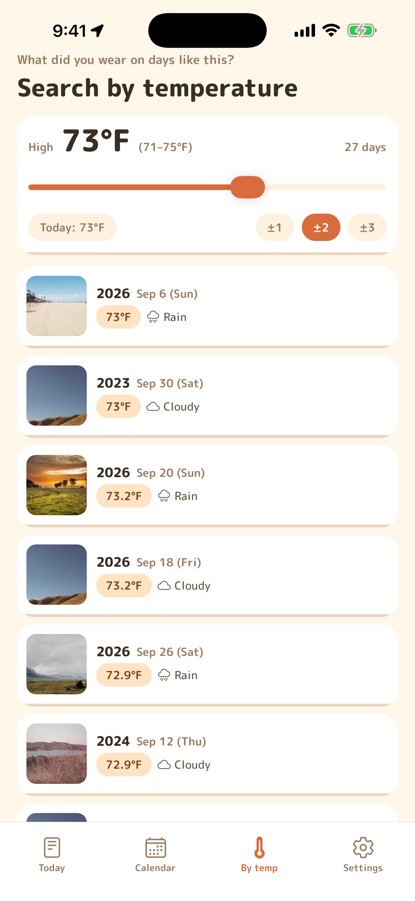
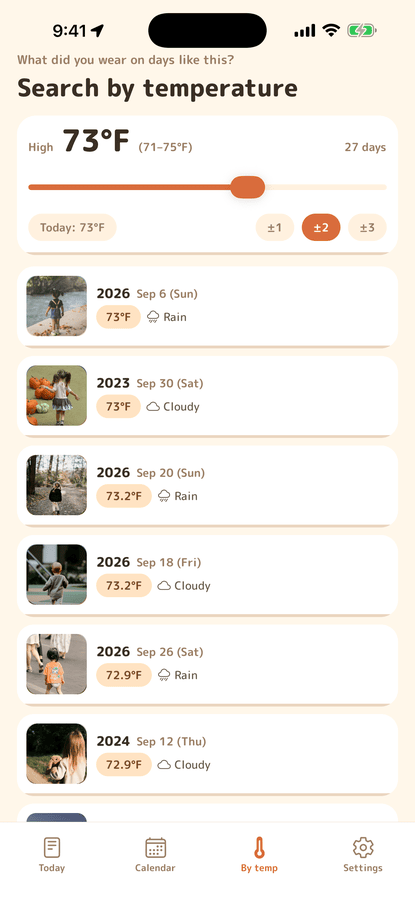
かさね日記の紹介ページ(日英): 画像を 1.8 の 7 枚に差し替え(朝のカードを先頭に、alt を付け直し、圧縮)、できることの先頭に朝の答え

Changed region(s): [[0.0578, 0.404, 0.2313, 0.8701], [0.0578, 0.2797, 0.2313, 0.3729]]

diff --git a/kasane-diary/index.html b/kasane-diary/index.html
@@ -57,15 +57,17 @@
   </header>
 
   <div class="shots">
-    <img src="./img/s1.png" alt="きょう・先週・先月・去年・2年前の同じ日が一枚の頁に並ぶ画面" loading="lazy">
-    <img src="./img/s2.png" alt="アプリの画面" loading="lazy">
-    <img src="./img/s3.png" alt="アプリの画面" loading="lazy">
-    <img src="./img/s4.png" alt="アプリの画面" loading="lazy">
-    <img src="./img/s5.png" alt="アプリの画面" loading="lazy">
-    <img src="./img/s6.png" alt="テーマカラーを選ぶ画面" loading="lazy">
+    <img src="./img/s1.png" alt="けさの気温と、同じくらいの気温だった日の写真" loading="lazy">
+    <img src="./img/s2.png" alt="きょう・先週・先月・去年・2年前の同じ日が一枚の頁に並ぶ画面" loading="lazy">
+    <img src="./img/s3.png" alt="去年・2年前と重ねてぱらぱら" loading="lazy">
+    <img src="./img/s4.png" alt="気温で過去の日をさがす画面" loading="lazy">
+    <img src="./img/s5.png" alt="ひと月の写真とその日の気温が並ぶこよみ" loading="lazy">
+    <img src="./img/s6.png" alt="何の日記かを選ぶ画面" loading="lazy">
+    <img src="./img/s7.png" alt="テーマカラーを選ぶ画面" loading="lazy">
   </div>
 
   <h2>できること</h2>
+  <div class="card"><h3>けさは半袖? 長袖? の答え</h3><p>ホームのいちばん上に、きょうの最高・最低・朝 8 時の気温と、同じくらいの気温だった日の写真が並びます。夕方からは、あしたの気温に切り替わるので、前の晩のうちに服を決めておけます。</p></div>
   <div class="card"><h3>気温でさがす</h3><p>今日と同じくらいの気温だった日の写真を、これまでの記録から並べて見られます。毎朝の服選びや衣替えの目安に。</p></div>
   <div class="card"><h3>去年の今日と重ねて見る</h3><p>きょう・先週・先月・去年・2 年前の同じ日が一枚の頁に。その日に写真が無ければ、前後 3 日でいちばん近い日を出します。</p></div>
   <div class="card"><h3>重ねてぱらぱら</h3><p>きょうの写真と、去年・2 年前の同じ日の写真を並べたまま、1 日ずつ同時にめくります。好きな日から 1 週間 / 1 か月 / 3 か月 / 1 年ぶん。子どもの成長や庭の季節の移り変わりが、数秒で見比べられます。</p></div>

diff --git a/kasane-diary/en/index.html b/kasane-diary/en/index.html
@@ -56,15 +56,17 @@
   </header>
 
   <div class="shots">
-    <img src="./img/s1.png" alt="Today stacked with last week, last month, last year and 2 years ago" loading="lazy">
-    <img src="./img/s2.png" alt="App screen" loading="lazy">
-    <img src="./img/s3.png" alt="App screen" loading="lazy">
-    <img src="./img/s4.png" alt="App screen" loading="lazy">
-    <img src="./img/s5.png" alt="App screen" loading="lazy">
-    <img src="./img/s6.png" alt="Choosing a theme color" loading="lazy">
+    <img src="./img/s1.png" alt="This morning's temperature, with photos from days that were about as warm" loading="lazy">
+    <img src="./img/s2.png" alt="Today stacked with last week, last month, last year and 2 years ago" loading="lazy">
+    <img src="./img/s3.png" alt="Flip through the same days across years" loading="lazy">
+    <img src="./img/s4.png" alt="Search past days by temperature" loading="lazy">
+    <img src="./img/s5.png" alt="A month of photos with each day's temperature" loading="lazy">
+    <img src="./img/s6.png" alt="Choose what the diary is about" loading="lazy">
+    <img src="./img/s7.png" alt="Choosing a theme color" loading="lazy">
   </div>
 
   <h2>What you can do</h2>
+  <div class="card"><h3>Short sleeves or long this morning?</h3><p>The top of the home screen shows today's high, low and 8 am temperature, with photos from days that were about as warm. From the evening, it switches to tomorrow, so you can pick clothes the night before.</p></div>
   <div class="card"><h3>Search by temperature</h3><p>See photos from past days that were about as warm as today. Your own record becomes a guide for what to wear and when to switch seasons.</p></div>
   <div class="card"><h3>Today, stacked with past years</h3><p>Today, last week, last month, last year and 2 years ago on one page. If there's no photo on that exact day, the closest day within 3 days is shown.</p></div>
   <div class="card"><h3>Flip through the years</h3><p>Flip day by day with today and the same days in past years side by side — a week, a month, three months or a year. Watch your kids grow or your garden change in a few seconds, and share it as a video.</p></div>
